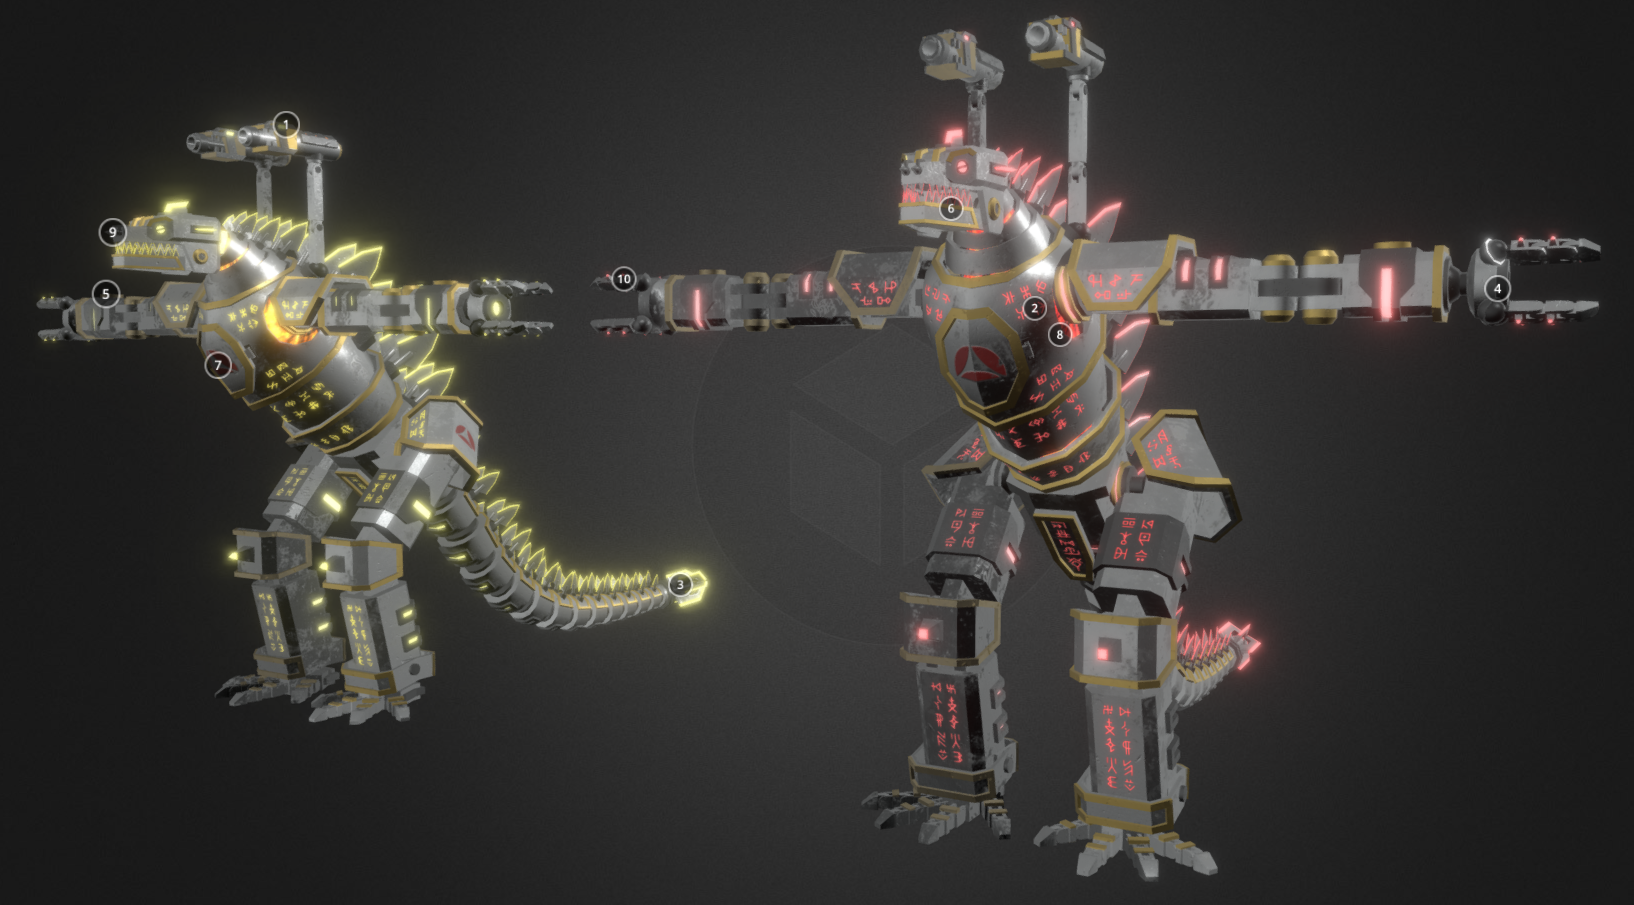
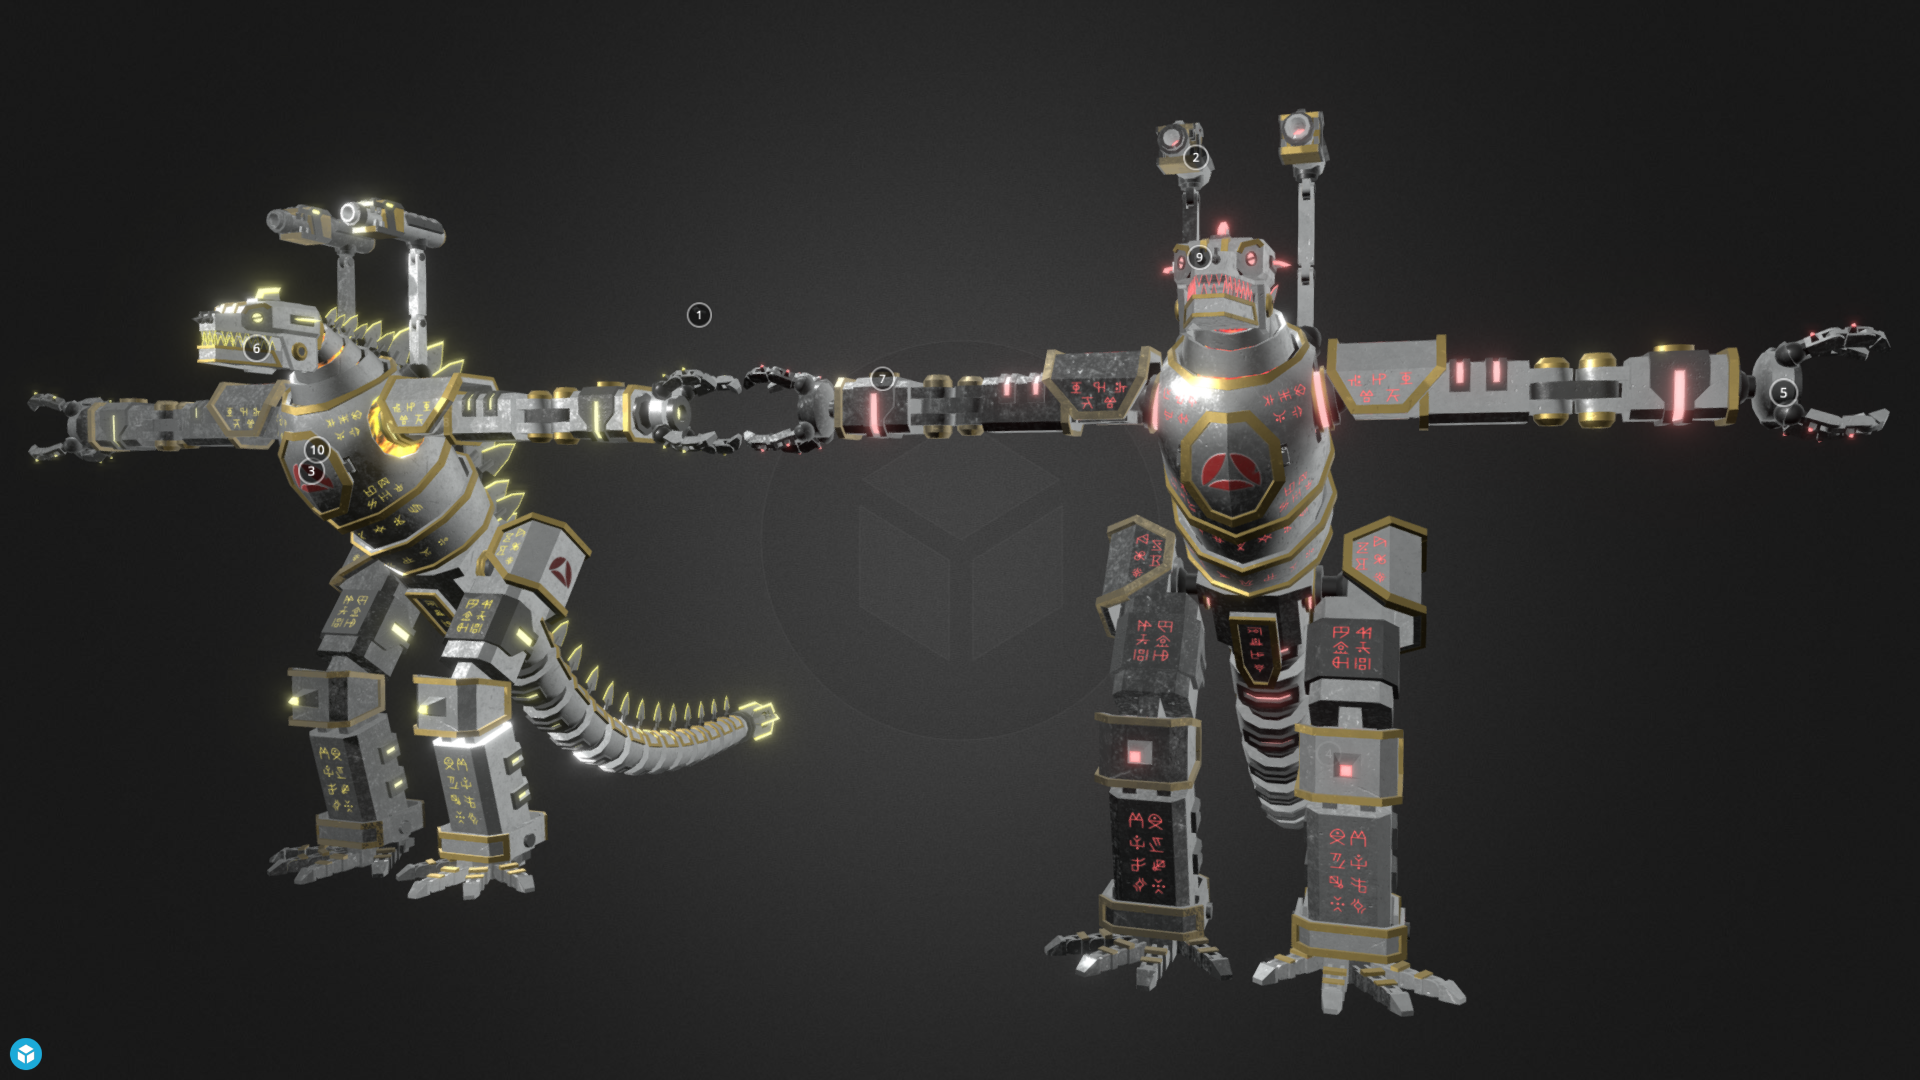
Replaced youtube iframes with regular images and added metal godzilla

Changed region(s): [[0.0, 0.0, 0.9988, 0.9901], [0.0, 0.9591, 0.0312, 0.9901]]

diff --git a/index.html b/index.html
@@ -259,7 +259,11 @@
                     </div>
                     <div class="project column is-full-mobile is-half-tablet is-one-third-desktop">
                         <h4 class="has-text-weight-bold is-size-4">Combine Prison Escape(2023)</h4>
-                        <iframe class="youtube" src="https://www.youtube.com/embed/1sFP2Gm9lcQ"></iframe>
+                        <!-- <iframe class="youtube" src="https://www.youtube.com/embed/1sFP2Gm9lcQ"></iframe> -->
+                        <a href="https://www.youtube.com/embed/1sFP2Gm9lcQ"
+                        target="_blank">
+                        <img src="media/images/halflife.png" alt="">
+                    </a>
                         <ul>
 
                             <li><strong>Workshop page:</strong><a
@@ -274,7 +278,11 @@
                     </div>
                     <div class="project column is-full-mobile is-half-tablet is-one-third-desktop">
                         <h4 class="has-text-weight-bold is-size-4">Portal 2 Playlist(2023)</h4>
-                        <iframe class="youtube" src="https://www.youtube.com/embed/Dvqc_EcZprk"></iframe>
+                        <!-- <iframe class="youtube" src="https://www.youtube.com/embed/Dvqc_EcZprk"></iframe> -->
+                        <a href="https://www.youtube.com/embed/Dvqc_EcZprk"
+                        target="_blank">
+                        <img src="media/images/portal_2.png" alt="">
+                    </a>
                         <ul>
 
                             <li><strong>Link:</strong> <a
@@ -290,7 +298,11 @@
                     </div>
                     <div class="project column is-full-mobile is-half-tablet is-one-third-desktop">
                         <h4 class="has-text-weight-bold is-size-4">Battleblock Theater Level(2023)</h4>
-                        <iframe class="youtube" src="https://www.youtube.com/embed/jgiwf84uNhc"></iframe>
+                        <!-- <iframe class="youtube" src="https://www.youtube.com/embed/jgiwf84uNhc"></iframe> -->
+                        <a href="https://www.youtube.com/embed/jgiwf84uNhc"
+                        target="_blank">
+                        <img src="media/images/battleblock.jpg" alt="">
+                    </a>
                         <ul>
 
                             <li><strong>Workshop page:</strong> <a
@@ -414,32 +426,30 @@
             <button class="collapsible has-text-weight-bold is-size-3">3D Assets</button>
             <div class="content">
                 <div class="columns is-multiline rows projectContent">
-                    <!-- <div class="project column is-full-mobile is-half-tablet is-one-third-desktop">
+                    
+                    <div class="project column is-full-mobile is-half-tablet is-one-third-desktop">
                         <h4 class="has-text-weight-bold is-size-4">Metal Godzilla(2024)</h4>
-                         <div class="sketchfab-embed-wrapper"> <iframe title="Metal Godzilla" frameborder="0"
+                        <!-- <div class="sketchfab-embed-wrapper"> <iframe title="Golem Godzilla" frameborder="0"
                                 allowfullscreen mozallowfullscreen="true" webkitallowfullscreen="true"
                                 allow="autoplay; fullscreen; xr-spatial-tracking" xr-spatial-tracking
                                 execution-while-out-of-viewport execution-while-not-rendered web-share
-                                src="https://sketchfab.com/models/81cbca24ff7e44309481ebcd9e0b2b49/embed" width="100%"
-                                height="300px"> </iframe> </div>  <a
-                            href="https://sketchfab.com/3d-models/metal-godzilla-81cbca24ff7e44309481ebcd9e0b2b49"
-                            target="_blank">
+                                src="https://sketchfab.com/models/116550ee5959485a8e9a4870f0138d40/embed" width="100%"
+                                height="300px"> </iframe> </div> -->
+                        <a href="https://www.artstation.com/artwork/L448mA" target="_blank">
                             <img src="media/images/3D_models_and_renders/Metal_Godzilla.png" alt="">
                         </a>
                         <ul>
-                            <li><strong>Link:</strong> <a
-                                    href="https://sketchfab.com/3d-models/metal-godzilla-81cbca24ff7e44309481ebcd9e0b2b49"
-                                    target="_blank">Sketchfab</a></li>
+                            <li><strong>Link:</strong> <a href="https://www.artstation.com/artwork/8b2D6O"
+                                    target="_blank">Artstation</a></li>
                             <li><strong>About:</strong> Designed and modelled a fantasy automaton modelled after
-                                Mechagodzilla
+                                MechaGodzilla from
                                 <i>Godzilla vs Kong</i>.
                             </li>
                             <li><strong>Team Size:</strong> Self</li>
                             <li><strong>Project Length:</strong> 1.5 months</li>
                             <li><strong>Tools:</strong> Maya, Blender, Substance Painter</li>
                         </ul>
-                    </div> -->
-
+                    </div>
                     <div class="project column is-full-mobile is-half-tablet is-one-third-desktop">
                         <h4 class="has-text-weight-bold is-size-4">Golem Godzilla(2024)</h4>
                         <!-- <div class="sketchfab-embed-wrapper"> <iframe title="Golem Godzilla" frameborder="0"
